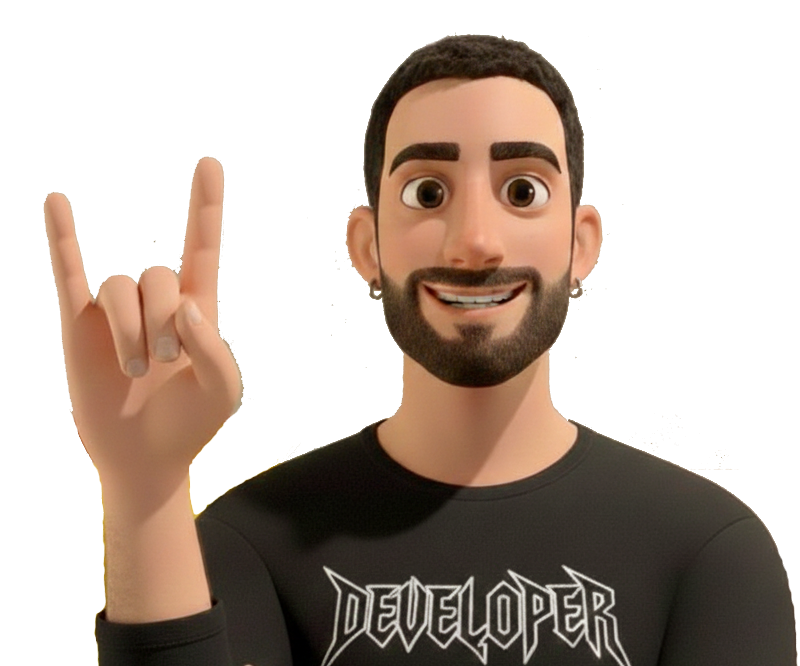
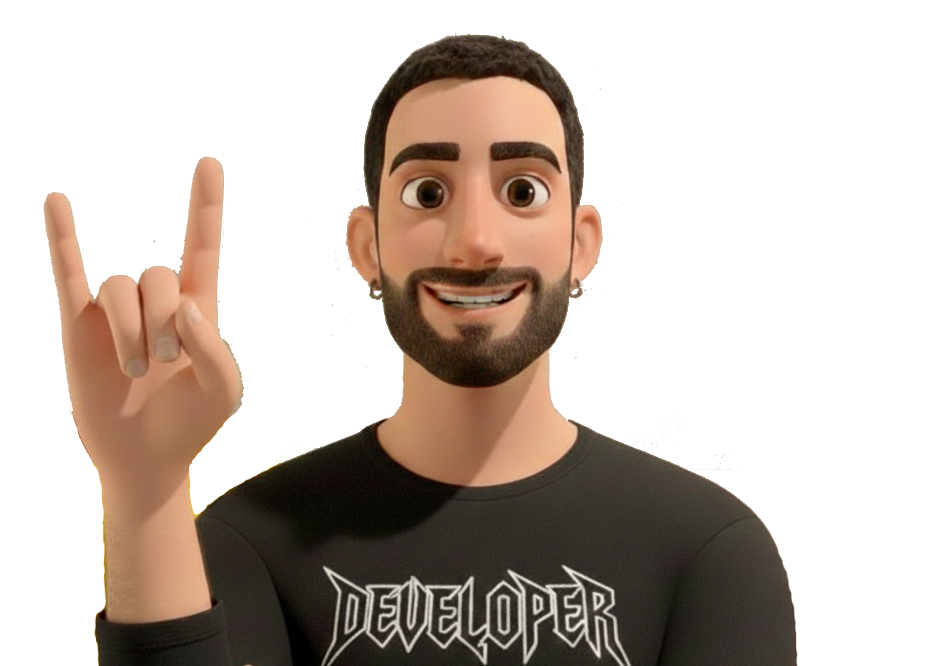
Clip hero image and fix responsive alignment

diff --git a/app/routes/home.tsx b/app/routes/home.tsx
@@ -125,7 +125,7 @@ export default function Home({ loaderData }: Route.ComponentProps) {
             <img
               src={resolvedTheme === 'dark' ? '/images/dark_ozgun.png' : '/images/light_ozgun.png'}
               alt="Özgün Bal"
-              className="h-64 w-auto"
+              className="h-auto max-h-64 w-auto max-w-full"
             />
           )}
           {!mounted && (
